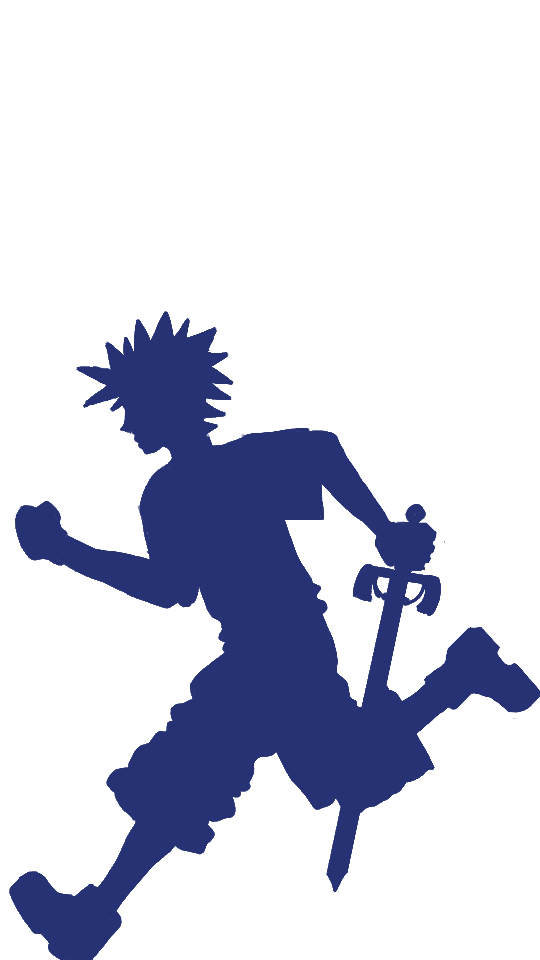
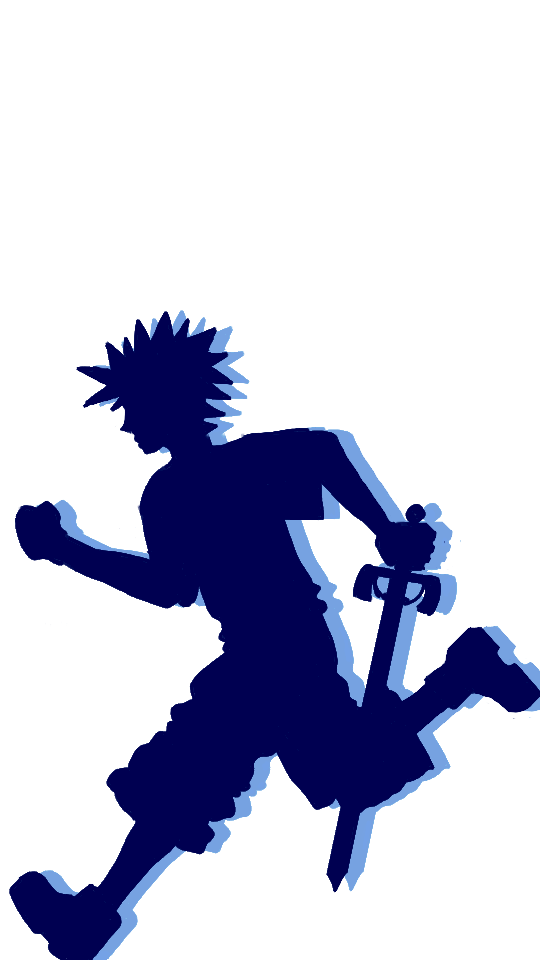
final update
updated the images to better when with blue outline so they dont get lost in background. also added red hue change to background over top of the flashing to hurt my eyes less. changed name of music_workinprogress to music_starter :)

Changed region(s): [[0.0, 0.3125, 1.0, 1.0]]

diff --git a/music_starter.js b/music_starter.js
@@ -1,44 +1,150 @@
 
 // vocal, drum, bass, and other are volumes ranging from 0 to 100
+
+
+let Run = []; // array for holding running animation
+let imageIndex = 0;
+let frameDelay = 25; // frame delay of running animation
+let frameCounter = 0;
+
+let firstRun = true; // used for run animation
+
+let palette = [   // colour palette for background colours
+  [20,20,54],
+  [16,35,48],
+  [31,25,54],
+  [250,0,0],
+  [26,20,69]
+];
+let eyeWidth = 100; // white center part of ellipse shapes
+let eyeHeight = 100; // white center part of ellipse shapes
+
+let irisWidth = 100;
+let irisHeight = 100;
+
+let bgImage;
+let bgLoaded = false;
+
+let ellipseVocal = 100; // used for map of sizing of ellipse
+let ellipseBass = 100; // used for map of bass for ellipse
+let ellipseDrum = 100; // used for map of drum of ellipse
+
+
+let b = 30; //  used for map of blue
+let r = 30; //  used for map of red
+
+let b2 = 30; // used for drum map of blue
+let r2 = 30; // used for drum map of red
+
+let red = 0;
+let t = 0;
+
 function draw_one_frame(words, vocal, drum, bass, other, counter) {
-  background(20)
-  textFont('Verdana'); // please use CSS safe fonts
-  rectMode(CENTER)
-  textSize(24);
-  
-   let bar_spacing = height / 10;
-   let bar_height = width / 12;
-   let bar_pos_x = width / 2;
- 
-// changes 
-   // vocal bar is red
-   fill(200, 0, 0);
-   rect(bar_pos_x, height / 2 + 1 * bar_spacing, 4 * vocal, bar_height);
-   fill(0);
-   text("vocals", bar_pos_x, height / 2 + 1 * bar_spacing + 8);
- 
-   // drum bar is green
-   fill(0, 200, 0);
-   rect(bar_pos_x, height / 2 + 2 * bar_spacing, 4 * drum, bar_height);
-   fill(0);
-   text("drums", bar_pos_x, height / 2 + 2 * bar_spacing + 8);
- 
-   // bass bar is blue
-   fill(50, 50, 240);
-   rect(bar_pos_x, height / 2 + 3 * bar_spacing, 4 * bass, bar_height);
-   fill(0);
-   text("bass", bar_pos_x, height / 2 + 3 * bar_spacing + 8);
- 
-   // other bar is white
-   fill(200, 200, 200);
-   rect(bar_pos_x, height / 2 + 4 * bar_spacing, 4 * other, bar_height);
-   fill(0);
-   text("other", bar_pos_x, height / 2 + 4 * bar_spacing + 8);
-   fill(255, 255, 0);
- 
-   // display "words"
-   textAlign(CENTER);
-   textSize(vocal);
-   text(words, width/2, height/3);
-   
+
+
+if (drum > 50) {  // adjust threshold 0–100
+    let c = random(palette);
+    background(c[0], c[1], c[2]); //  uses my colours from palette
+  } else {
+    background(20,14,74); // default dark background
+  }
+
+  fill(153,196,247,200); // light blue
+  noStroke();
+  rect(0,540,700,400);
+
+  fill(83, 120, 201,200); // blue
+  rect(0,350,700,280);
+
+  fill(48, 51, 140,200); // navy
+  rect(0,150,700,290);
+
+  fill(31,23,97,200); // dark blue
+  rect(0,0,700,250);
+
+  fill(red,0,0,t); // red
+  rect(0,0,1400,800);
+
+  red = map(drum,50,100,0,250); //  both maps used to make background more red the higher the drum value
+  t = map(drum, 50,100,0,200);
+
+  stroke(r2,0,b2);
+  strokeWeight(5);
+  noFill();
+  ellipse(275,200,ellipseBass,ellipseBass);
+  ellipse(275,200,ellipseBass-30,ellipseBass-30);
+  ellipse(275,200,ellipseBass-60,ellipseBass-60) // large ellipse
+
+  stroke(r,0,b);
+  ellipse(275,200,ellipseVocal,ellipseVocal);
+  ellipse(275,200,ellipseVocal-30,ellipseVocal-30);
+  ellipse(275,200,ellipseVocal-60,ellipseVocal-60); // medium ellipse
+
+  stroke(255);
+  ellipse(275,200,ellipseDrum,ellipseDrum);
+  ellipse(275,200,ellipseDrum-30,ellipseDrum-30);
+  ellipse(275,200,ellipseDrum-60,ellipseDrum-60);// small ellipse
+
+  fill(255);
+  noStroke();
+  ellipse(275,200,eyeWidth,eyeHeight); // size of eye
+
+  fill(r2,0,b2);
+  ellipse(275,200,irisWidth,irisHeight); // size of iris
+
+
+  ellipseVocal = map(vocal, 0, 100, 30, 220);
+  ellipseBass = map(bass, 0, 100, 30, 210);
+  ellipseDrum = map(drum, 0, 100, 30, 330);
+
+  eyeWidth = map(vocal, 0, 100, 5, 20);
+  eyeHeight = map(vocal, 0, 100, 7, 90);
+
+  irisWidth = map(bass, 0, 100, 2, 10);
+  irisHeight = map(bass, 0, 100, 9, 70);
+
+  b = map(other, 0, 100, 0, 250); // map for blue colour of medium ellipse
+  r = map(other, 100, 0, 0, 250); // map for red colour of medium ellipse
+
+  b2 = map(drum, 100, 0, 0, 250);
+  r2 = map(drum, 0, 100, 0 , 250);
+
+  if (!bgLoaded) {
+    bgImage = loadImage('Background.png');
+    bgLoaded = true;
+  }
+
+  if (bgImage) {
+    image(bgImage, 0, 0, width, height);
+  }
+
+
+if (firstRun) { // loop run of running animation
+ for (let i = 1; i < 12; i++)  {
+      Run.push(loadImage('run/Run_Frame' + i + '.png'));
+  }
+  firstRun = false; // used to not crash from loading too many images :)
+
 }
+
+if (Run.length > 0) {
+    image(Run[imageIndex], width/110, height/140); // width and height can be used to move run animation
+  }
+
+  frameCounter++;
+  if (frameCounter >= frameDelay) {
+    imageIndex++;
+    if (imageIndex >= Run.length) {
+      imageIndex = 0;
+    }
+    frameCounter = 0;
+  }
+
+  frameDelay = map(bass, 0, 100, 10, 2);  // changes how fast or slow run animation is based off of drum
+
+}
+
+
+
+
+

diff --git a/index.html b/index.html
@@ -5,7 +5,7 @@
     <script language="javascript" type="text/javascript" src="lib/p5.sound.js"></script>
     <script language="javascript" type="text/javascript" src="lib/taira.js"></script>
     <script language="javascript" type="text/javascript" src="system_settings.js"></script>
-    <script language="javascript" type="text/javascript" src="music_workinprogress.js"></script>
+    <script language="javascript" type="text/javascript" src="music_starter.js"></script>
     <script language="javascript" type="text/javascript" src="system_runner.js"></script>
 
     <style>
